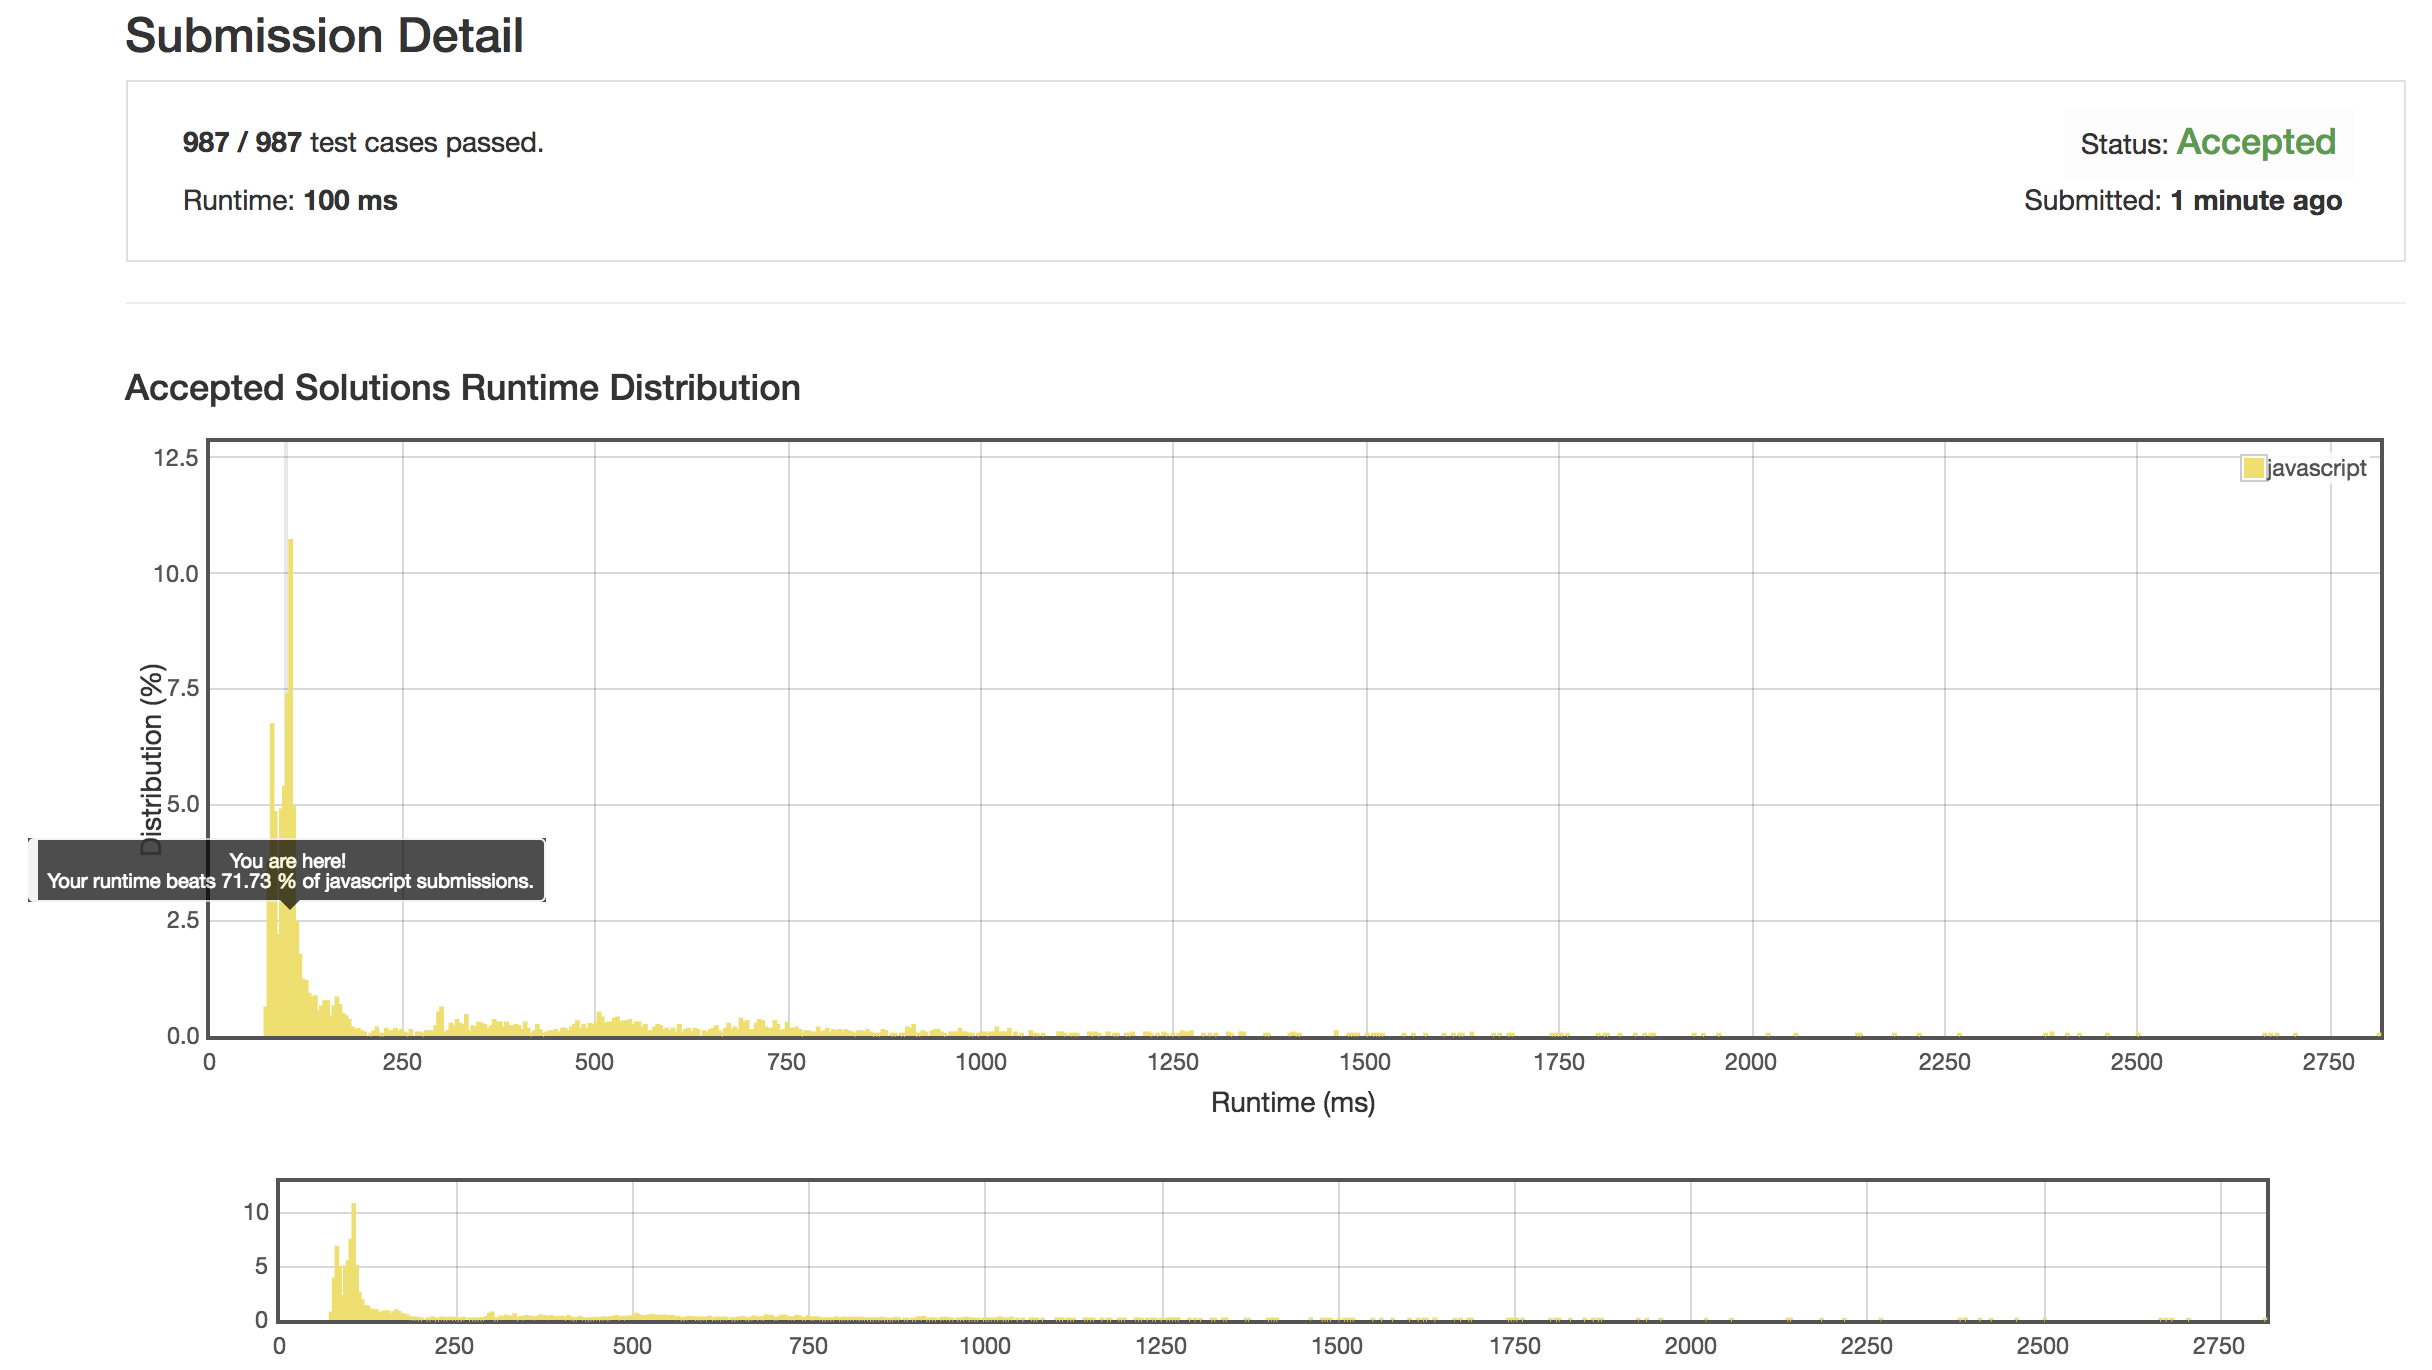
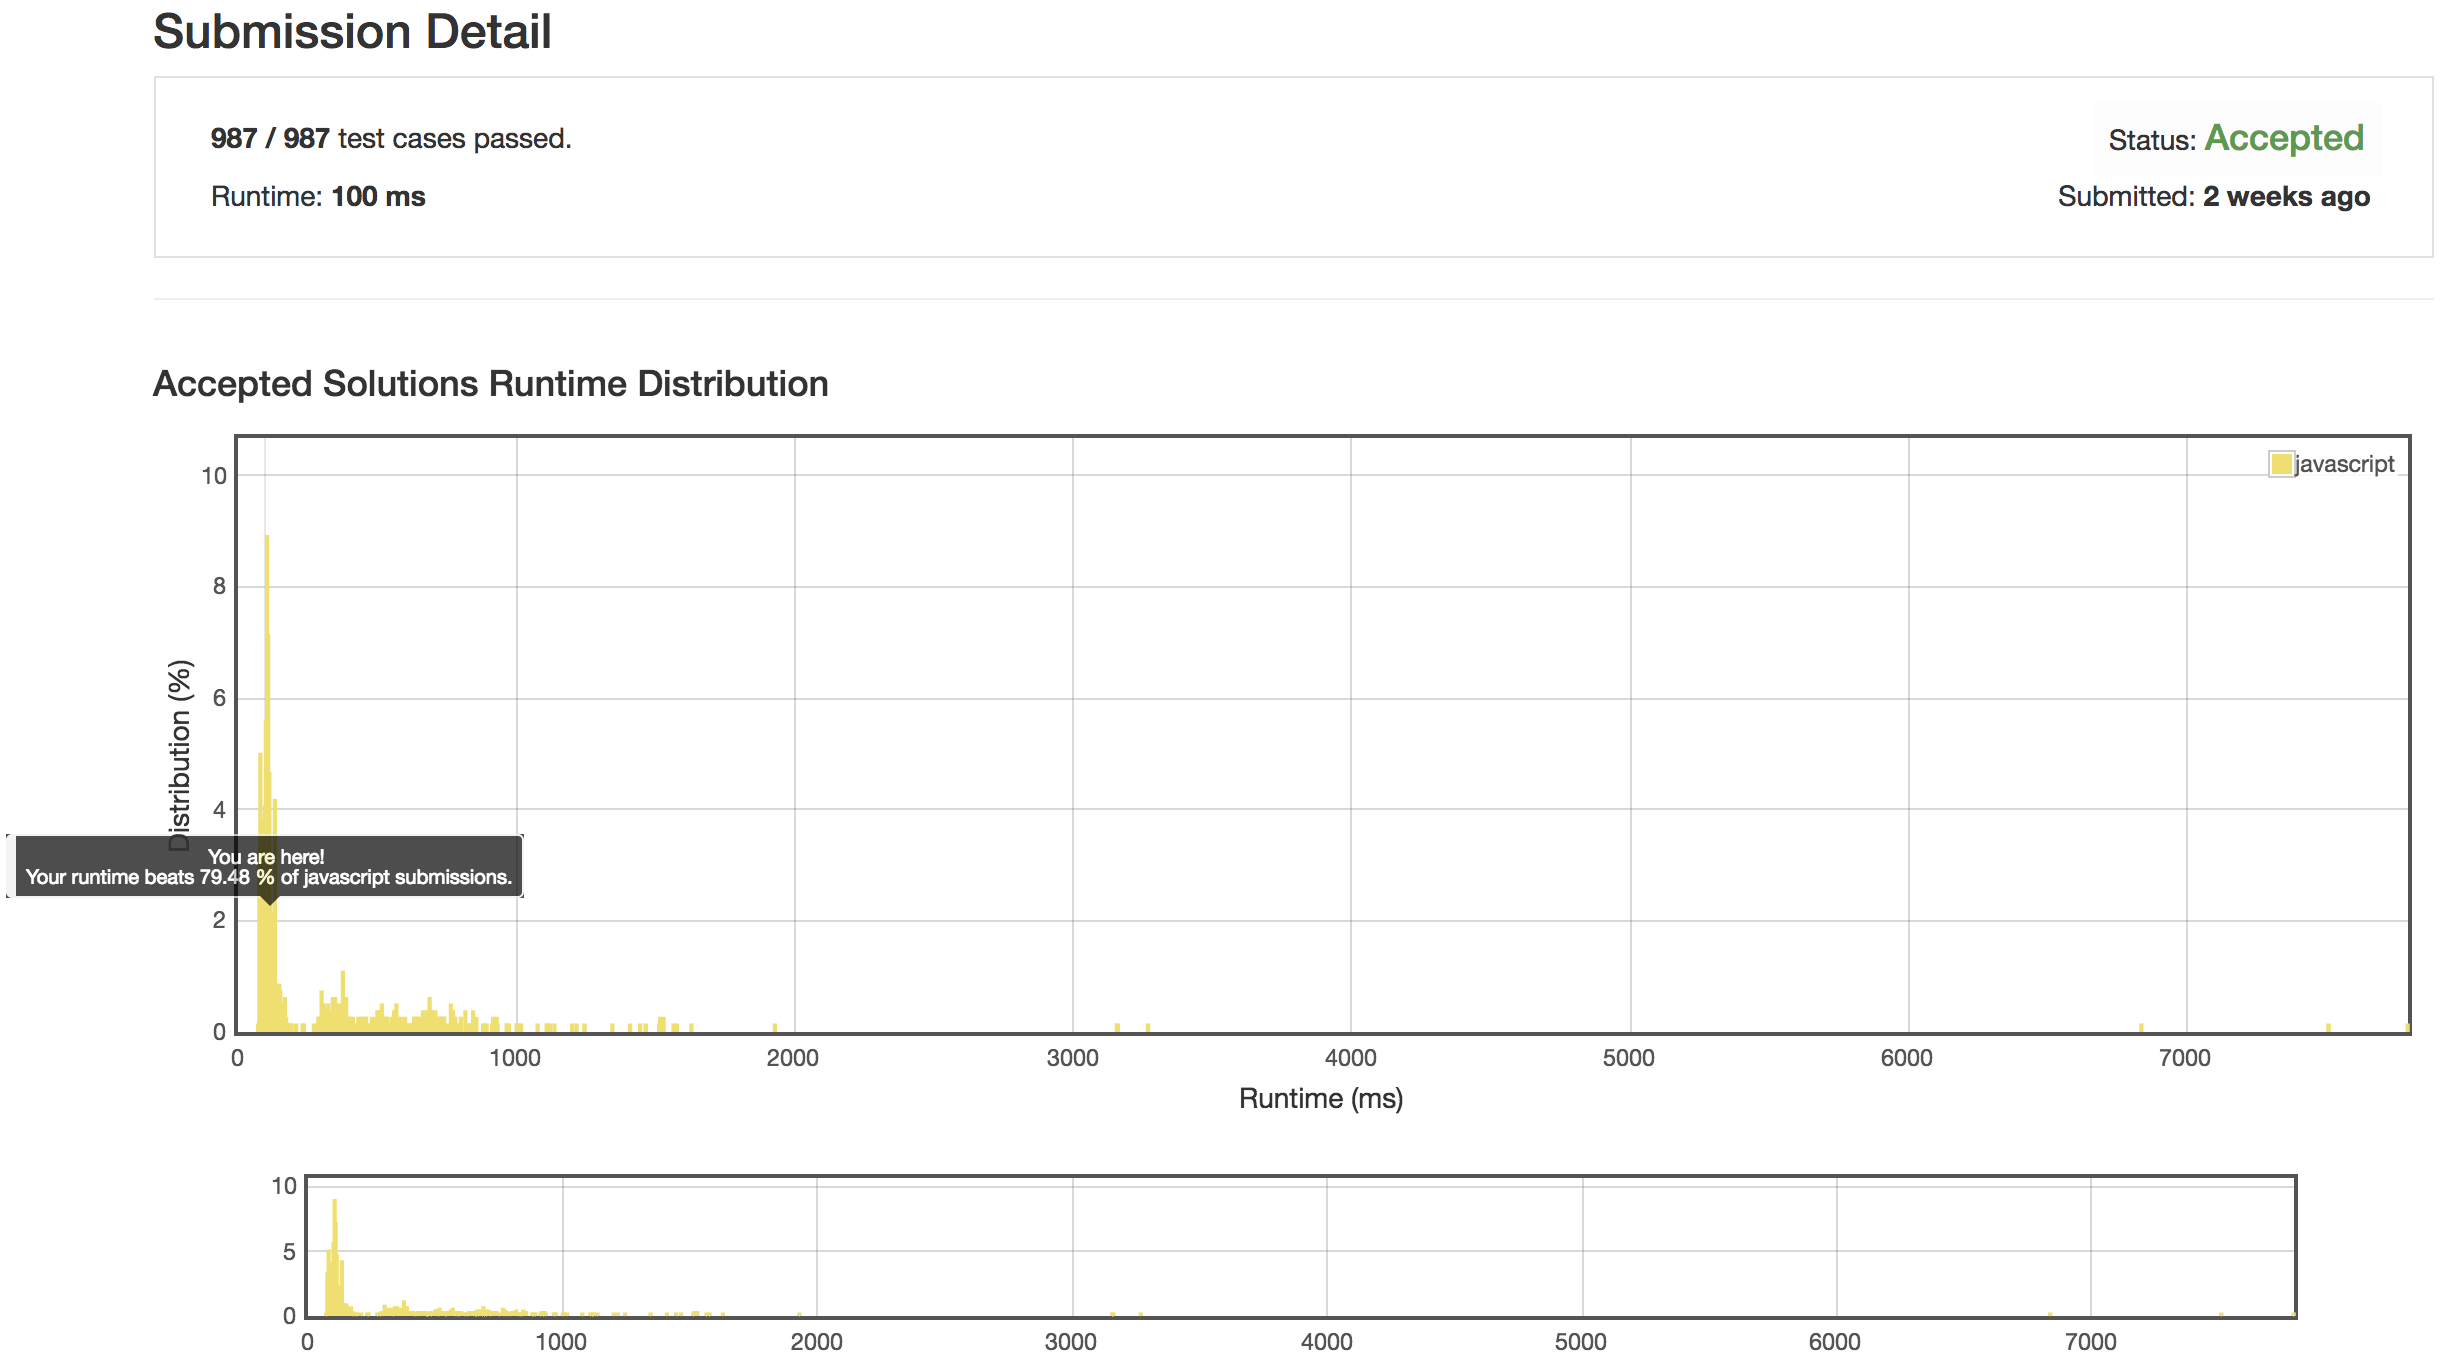
UPDATE length of longest substring result

diff --git a/README.md b/README.md
@@ -11,7 +11,7 @@ So far:
 | [Two Sum](easy/two-sum) | Easy | 89.19% | 15th Dec 2018 |
 | [Add Two Numbers](medium/add-two-numbers) | Medium | 99.53% | 15th Dec 2018 |
 | [String to Integer (atoi)](medium/string-to-integer-atoi) | Medium | 98.49% | 15th Dec 2018 |
-| [Length of Longest Substring](medium/length-of-longest-substring) | Medium | 71.73% | 30th Dec 2018 |
+| [Length of Longest Substring](medium/length-of-longest-substring) | Medium | 79.48% | 30th Dec 2018 |
 | [Container With Most Water](medium/container-with-most-water) | Medium | 100% | 1st Jan 2019 |
 | [Merge k Sorted Lists](hard/merge-k-sorted-lists) | Hard | 67.07% | 1st Jan 2019 |
 | [Validate Binary Search Tree](medium/validate-binary-search-tree) | Medium | 100% | 2nd Jan 2019 |
